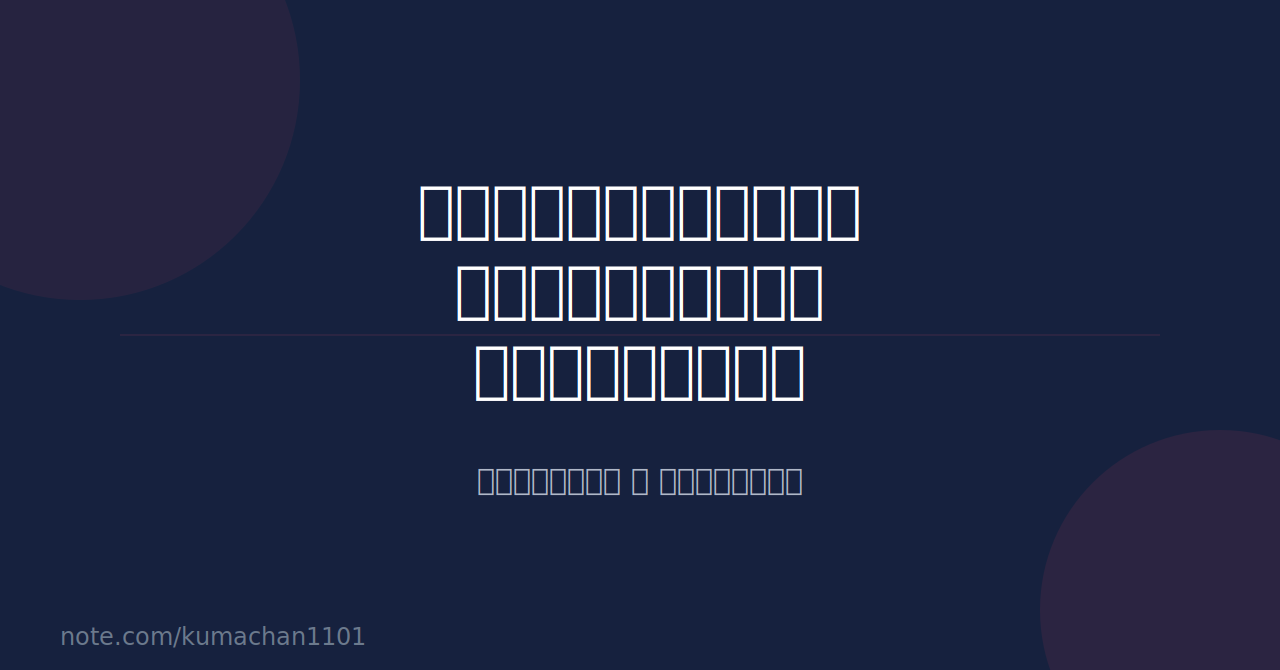
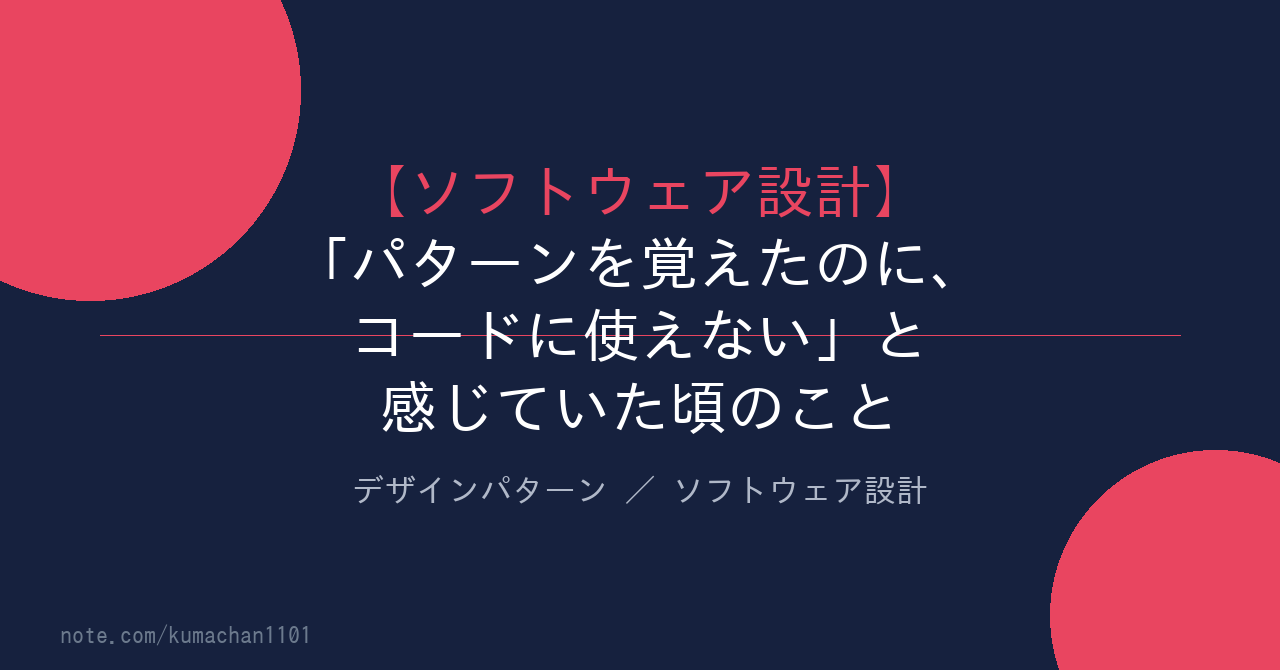
note: タイトル【ソフトウェア設計】必須化・カバー画像をPillowで日本語対応
article-001.md:
  - タイトル先頭に【ソフトウェア設計】を追加

CLAUDE.md:
  - タイトルルール：全記事先頭に【ソフトウェア設計】を必ず付けるルールを追記

cover-agent.md:
  - cairosvg（日本語フォント非対応）→ Pillow + IPAゴシックに切り替え
  - 日本語が正しく描画されるPNG生成コードに全面改訂

cover-001.png:
  - IPAゴシックフォントで再生成

https://claude.ai/code/session_01ASdL3CG1SXDgmcwGgTjfbv

diff --git a/note/agents/cover-agent.md b/note/agents/cover-agent.md
@@ -40,44 +40,71 @@ SVG を生成し、`output/covers/cover-NNN.svg` に書き出す。
 
 仕様：幅 1280px、高さ 670px（16:9）
 
-### ステップ4：SVG を PNG に変換する（自動実行）
+### ステップ4：Pillow で PNG を直接生成する（自動実行）
 
-以下の Bash コマンドを実行する：
+SVG 経由ではなく Pillow で直接 PNG を生成する。
+（cairosvg は日本語フォントを正しく描画できないため使用しない）
 
-```bash
-pip install cairosvg -q && \
-python3 -c "
-import cairosvg
-cairosvg.svg2png(
-    url='note/output/covers/cover-NNN.svg',
-    write_to='note/output/covers/cover-NNN.png',
-    output_width=1280,
-    output_height=670
-)
-print('PNG変換完了: note/output/covers/cover-NNN.png')
-"
-```
-
-**cairosvg インストール失敗またはエラーの場合**：
-Pillow で日本語フォント指定なしの代替 PNG を生成する：
+日本語フォント：`/usr/share/fonts/opentype/ipafont-gothic/ipag.ttf`
 
 ```bash
-pip install Pillow -q && \
-python3 -c "
-from PIL import Image, ImageDraw
-import json
+pip install Pillow -q && python3 << 'PYEOF'
+from PIL import Image, ImageDraw, ImageFont
 
-# カラーはcover-design.mdで決めた値を使う
-bg_color = (26, 26, 46)       # #1a1a2e
-accent   = (74, 158, 255)     # #4a9eff
-img = Image.new('RGB', (1280, 670), bg_color)
+# cover-design.md のテーマ別カラーから選んだ値を使う
+W, H   = 1280, 670
+BG     = (26, 26, 46)     # テーマに合わせて変更
+ACCENT = (74, 158, 255)   # テーマに合わせて変更
+WHITE  = (255, 255, 255)
+SUBCLR = (176, 184, 200)
+CREDIT = (108, 122, 141)
+
+img  = Image.new("RGB", (W, H), BG)
 draw = ImageDraw.Draw(img)
-img.save('note/output/covers/cover-NNN.png')
-print('PNG生成完了（簡易版）: note/output/covers/cover-NNN.png')
-"
+
+font_path = "/usr/share/fonts/opentype/ipafont-gothic/ipag.ttf"
+f_title  = ImageFont.truetype(font_path, 58)
+f_sub    = ImageFont.truetype(font_path, 32)
+f_credit = ImageFont.truetype(font_path, 24)
+
+# 装飾円（半透明は Pillow では RGBA レイヤーで対応）
+overlay = Image.new("RGBA", (W, H), (0,0,0,0))
+od = ImageDraw.Draw(overlay)
+od.ellipse([(-120,-120),(300,300)], fill=(*ACCENT, 20))
+od.ellipse([(1050,450),(1380,780)], fill=(*ACCENT, 15))
+img.paste(Image.alpha_composite(img.convert("RGBA"), overlay).convert("RGB"))
+
+draw = ImageDraw.Draw(img)
+draw.line([(100, H//2),(W-100, H//2)], fill=(*ACCENT, 80), width=1)
+
+# タイトル行（最大4行、1行20文字目安で分割）
+lines = [
+    "【ソフトウェア設計】",   # 1行目はアクセントカラー
+    "（タイトル1行目）",
+    "（タイトル2行目）",
+]
+line_h = 72
+start_y = (H - line_h * len(lines)) // 2 - 30
+for i, line in enumerate(lines):
+    bbox = draw.textbbox((0,0), line, font=f_title)
+    x = (W - (bbox[2]-bbox[0])) // 2
+    color = tuple(ACCENT) if i == 0 else WHITE
+    draw.text((x, start_y + i * line_h), line, font=f_title, fill=color)
+
+# サブテキスト
+sub = "デザインパターン ／ ソフトウェア設計"
+bbox = draw.textbbox((0,0), sub, font=f_sub)
+draw.text(((W-(bbox[2]-bbox[0]))//2, start_y + line_h*len(lines)+24), sub, font=f_sub, fill=SUBCLR)
+
+# 著者クレジット
+draw.text((60, H-48), "note.com/kumachan1101", font=f_credit, fill=CREDIT)
+
+img.save("note/output/covers/cover-NNN.png")
+print("PNG生成完了")
+PYEOF
 ```
 
-どちらも失敗した場合は `cover_png_available: false` を JSON に含め、
+失敗した場合は `cover_png_available: false` を JSON に含め、
 publish-agent へ「カバーのブラウザアップロードをスキップ」と伝える。
 
 ### ステップ5：完了報告

diff --git a/note/CLAUDE.md b/note/CLAUDE.md
@@ -60,10 +60,17 @@
 
 ## Note記事の構造ルール
 
+### タイトルルール
+
+**全記事のタイトル先頭に `【ソフトウェア設計】` を必ず付ける。**
+例：`# 【ソフトウェア設計】「パターンを覚えたのに、コードに使えない」と感じていた頃のこと`
+
+これはブログ全体で統一しているルールのため、例外なく適用する。
+
 ### 基本構造
 
 ```
-# タイトル
+# 【ソフトウェア設計】タイトル
 
 ## はじめに（3〜5文）
 

diff --git a/note/output/articles/article-001.md b/note/output/articles/article-001.md
@@ -1,4 +1,4 @@
-# 「パターンを覚えたのに、コードに使えない」と感じていた頃のこと
+# 【ソフトウェア設計】「パターンを覚えたのに、コードに使えない」と感じていた頃のこと
 
 GoFを読んだことがあります。
 Strategyパターン、Observerパターン、Decoratorパターン——名前は言えるようになりました。